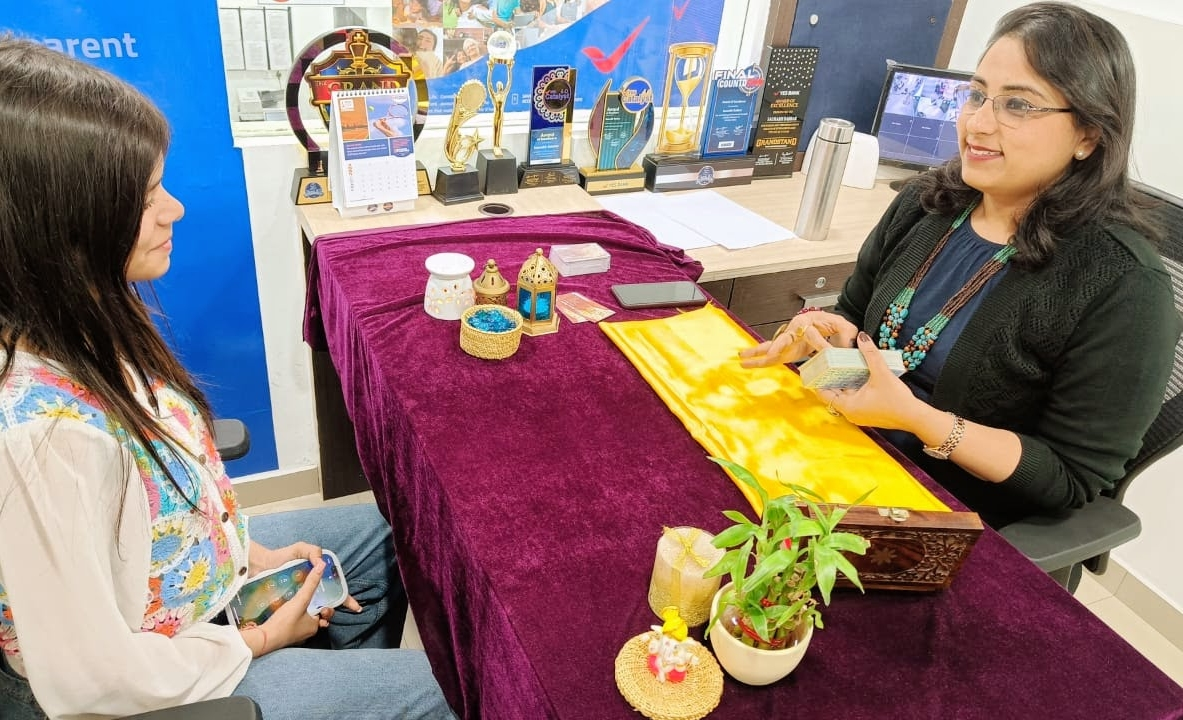
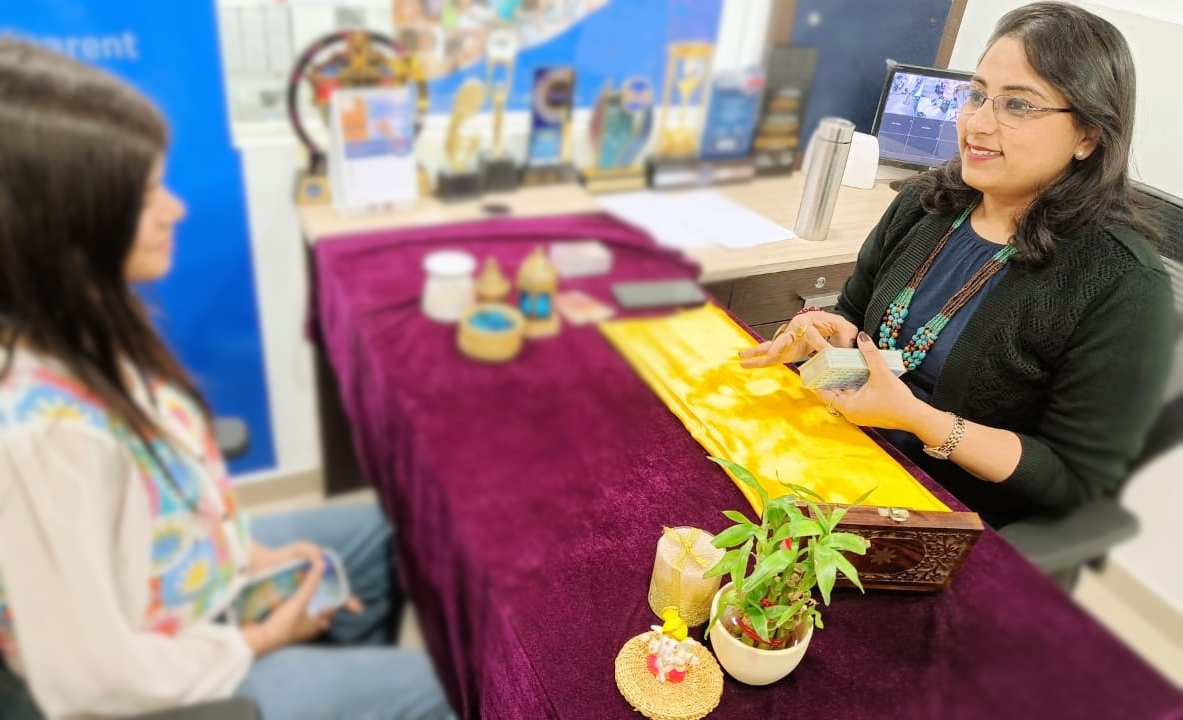
stylesheet and images

diff --git a/stylesheet/style.css b/stylesheet/style.css
@@ -126,10 +126,21 @@
     padding: 0px 5px;
 }
 
-.secondInfoImg>img {
+/* .secondInfoImg>img {
     margin: 45px 15px;
     width: 95%;
     height: auto;
+} */
+
+.imgH {
+    margin: 45px 15px;
+    width: 95%;
+    height: auto;
+}
+
+
+.imgV {
+    display: none;
 }
 
 .specializeHeading {
@@ -489,5 +500,260 @@
 
     .floorTitles {
         font-weight: 800;
+    }
+}
+
+@media only screen and (min-width: 600px) and (max-width: 978px) {
+
+    .windowPane {
+        max-width: 1275px;
+        margin: 0 auto;
+        font-family: "Merriweather Sans", sans-serif;
+    }
+
+    .navBar {
+        background-color: #fef0e8;
+        display: flex;
+        flex-direction: row;
+        justify-content: space-between;
+        padding: 25px;
+    }
+
+    .navbarImg {
+        width: 15%;
+        height: auto;
+    }
+
+    .navBar>h2 {
+        font-size: xx-large;
+    }
+
+    .navBar>div {
+        margin: auto 0;
+    }
+
+    .navBar>div>ul {
+        display: flex;
+        flex-direction: row;
+        padding: 0px
+    }
+
+    .navBar>div>ul>li {
+        font-family: "Nunito Sans", sans-serif;
+        font-optical-sizing: auto;
+        font-weight: 400;
+        font-style: normal;
+        font-size: larger;
+        list-style-type: none;
+        margin: 0 25px;
+    }
+
+    .navBar>div>ul>li>a {
+        text-decoration: none;
+        color: inherit;
+    }
+
+    .frontImg {
+        display: contents;
+    }
+
+    .frontImg>img {
+        width: 45%;
+        height: auto;
+        margin: 0 45px 0 0;
+        z-index: -1;
+    }
+
+    .firstInfo {
+        display: flex;
+        flex-direction: row;
+        justify-content: left;
+    }
+
+    .para {
+        margin: 0 25px;
+    }
+
+    .para>p {
+        font-family: "Merriweather", serif;
+        font-weight: 300;
+        font-style: normal;
+        font-size: 35px;
+        margin: 45px 0;
+        max-width: 675px;
+        padding: 45px 15px;
+    }
+
+    .secondOrderInfoOuter {
+        background-color: #fef0e8;
+    }
+
+    .secondOrderInfo {
+        display: flex;
+        flex-direction: row;
+        max-width: 1255px;
+        margin: 0px auto;
+    }
+
+    .secondInfoPane {
+        font-family: "Nunito Sans", sans-serif;
+        font-optical-sizing: auto;
+        font-weight: 300;
+        font-style: normal;
+        font-size: large;
+        display: block;
+        max-width: 51%;
+        margin: 45px 11px 0px 15px;
+    }
+
+    .secondInfoHeading {
+        font-family: "Merriweather", serif;
+        font-weight: 200;
+        font-style: normal;
+        background-color: #486573;
+        color: #ffffff;
+        padding: 11px 0;
+    }
+
+    .secondInfoHeading>div {
+        max-width: 545px;
+        margin: 0px auto;
+    }
+
+    .secondInfoHeading>div>h2 {
+        margin: 5px 0;
+        padding: 0px 15px;
+    }
+
+    .secondInfoHeading>div>h3 {
+        font-weight: 200;
+        margin: 5px 0;
+        padding: 0px 15px;
+    }
+
+    .secondInfoPara {
+        padding: 0px 5px;
+    }
+
+    .imgH {
+        display: none;
+    }
+
+    .imgV {
+        margin: 45px 15px;
+        width: 91%;
+        height: auto;
+        display: block;
+    }
+
+    .specializeHeading {
+        background-color: #486573;
+        color: #ffffff;
+    }
+
+    .specializeHeading>h1 {
+        font-family: "Merriweather", serif;
+        font-style: normal;
+        text-align: center;
+        max-width: 425px;
+        margin: 0px auto;
+        padding: 45px 25px;
+    }
+
+    .specializePane {
+        display: flex;
+        flex-direction: row;
+        justify-content: space-between;
+    }
+
+    .specializePane>div {
+        font-family: "Nunito Sans", sans-serif;
+        font-optical-sizing: auto;
+        font-weight: 400;
+        font-style: normal;
+        font-size: x-large;
+        text-align: center;
+        flex: 25%;
+        color: #486573;
+        border: 2px solid #486573;
+        border-top: 0px;
+        border-right: 0px;
+        padding: 55px 0px;
+        margin: 0px;
+    }
+
+    .specializePane>div>p {
+        margin: 15px 0px;
+    }
+
+    .specializePane>div>img {
+        width: 55px;
+        height: auto;
+    }
+
+    #specializeOutermost {
+        border: 2px solid #486573;
+        border-top: 0px;
+    }
+
+    .imageQuote {
+        position: relative;
+    }
+
+    .imageQuote>img {
+        width: 100%;
+        height: auto;
+    }
+
+    .quote {
+        color: #ffffff;
+        position: absolute;
+        top: 15%;
+        left: 15%;
+        max-width: 575px;
+        margin: 55px auto;
+        text-align: center;
+        font-family: "Merriweather", serif;
+        font-size: 21px;
+        font-style: italic;
+    }
+
+    .floorBar {
+        font-family: "Nunito Sans", sans-serif;
+        font-optical-sizing: auto;
+        font-weight: 400;
+        font-style: normal;
+        font-size: large;
+        background-color: #486573;
+        color: #ffffff;
+        display: flex;
+        flex-direction: row;
+        justify-content: space-between;
+        padding: 55px;
+    }
+
+    .floorIcons>img {
+        width: 45px;
+        height: auto;
+        padding: 55px 25px;
+    }
+
+    .floorBar>div {
+        display: flex;
+        flex-direction: row;
+    }
+
+    .floorBar>div>p {
+        font-weight: 800;
+    }
+
+    .floorLinks {
+        text-decoration: none;
+        color: inherit;
+    }
+
+    .floorTitles {
+        font-size: larger;
+        font-weight: 700;
     }
 }

diff --git a/index.html b/index.html
@@ -61,7 +61,7 @@
                             years
                             ago
                             after realising her potential and has now boomed into a large community .
-                            <br><br>Charu has inspired millions of people working closely with them to bring a shift in
+                            <br><br>Charu has inspired thousands of people working closely with them to bring a shift in
                             their Mindset, break their limiting beliefs &amp; help them realize their potential to
                             manifest
                             with ease. She is driven by a belief that anyone can manifest the life of their wildest
@@ -72,7 +72,8 @@
                     </div>
                 </div>
                 <div class="secondInfoImg">
-                    <img src="images/IMG-20240823-WA0009_edit.jpg" alt="">
+                    <img class="imgH" src="images/IMG-20240823-WA0009_edit.jpg" alt="">
+                    <img class="imgV" src="images/IMG-20240823-WA0009_V.jpg" alt="">
                 </div>
             </div>
         </div>
